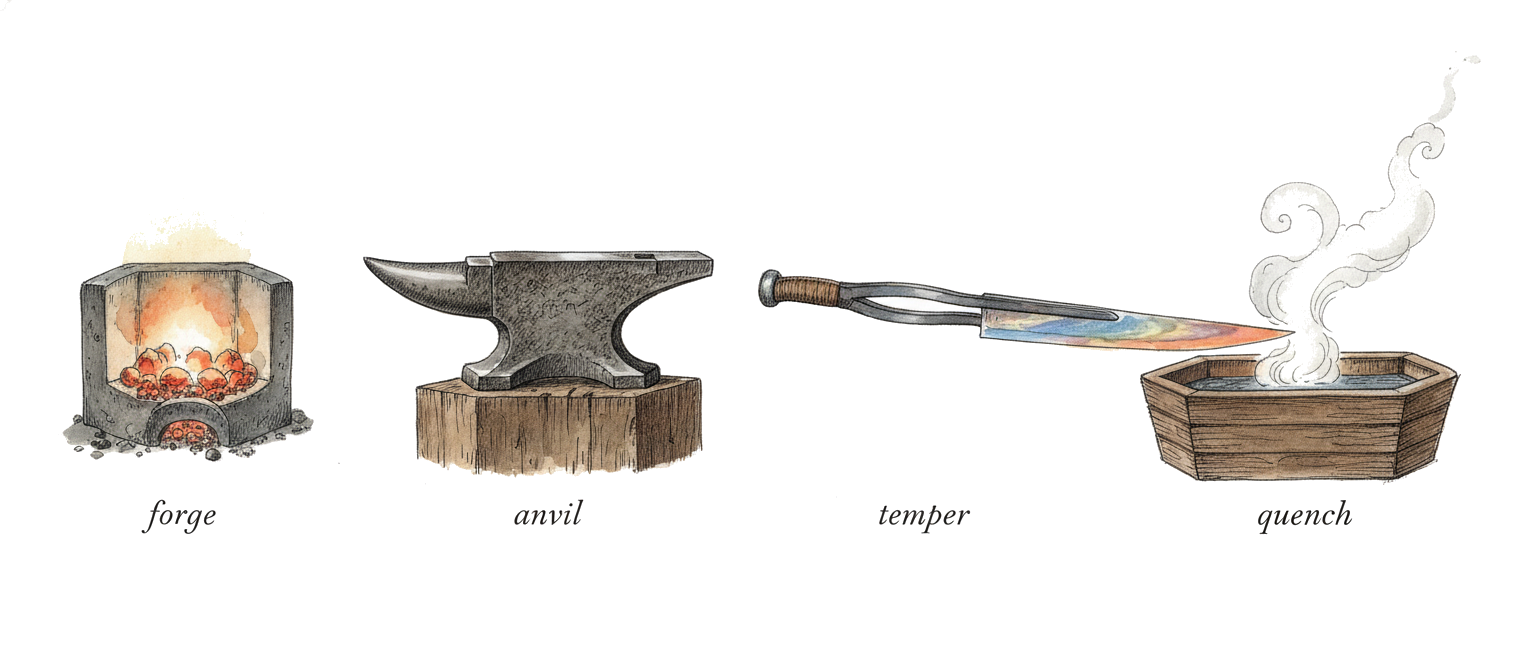
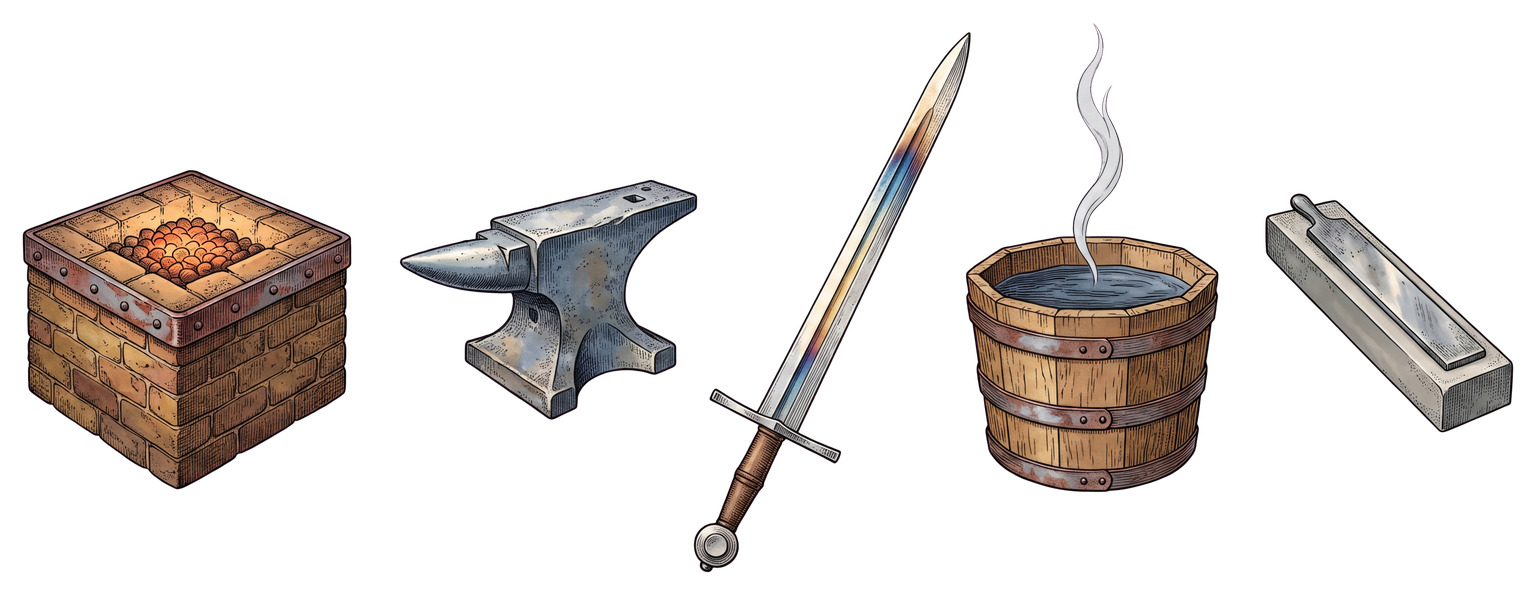
fix: redraw hero.png with a clean alpha channel and all five stages (#13)
The committed hero.png keyed badly. It carried an opaque cream background
remnant sitting above the forge and 250 separate speckle regions of keying
debris — 258 regions in total against 4 objects, with subject pixels bleeding
onto the canvas border. Invisible on white, obvious on any mid-tone.

It was also stale and unfixable in place: `forge anvil temper quench` was
painted into the pixels, so it still read as a four-stage pipeline after `hone`
became stage five, and painted text cannot be re-cropped, restyled or read at
favicon size.

Redrawn with the transparent-logo skill as five objects and no lettering —
coke forge, anvil, tempered blade, quenching tub, whetstone — and cut to a real
alpha channel. The stage names now live in a README caption beside the pipeline
table, where they can be edited.

Cut: 5 regions for 5 objects, 2.06% partial alpha, zero opaque key-coloured
pixels, zero border bleed, no fringe over white, mid-grey or #0d1117.

Four plates were rejected first, each for a property of the subject rather than
of the keyer: an open recess bleeding the key through its hatching, glowing
flame wisps taking the key colour and detaching, a "sword blade" arriving
without a hilt, and a narrow enclosed gap under a bridging clamp surviving the
keyer's hole test because a sliver is mostly antialiased fringe. All four are
recorded in docs/assets/README.md with the fix each one bought.

Feature: hero-image
Symbol: docs/assets/hero.png
[…]

diff --git a/docs/assets/README.md b/docs/assets/README.md
@@ -1,0 +1,51 @@
+# The hero image — provenance
+
+`hero.png` is the five stages of the pipeline drawn as five smithing implements, reading left to
+right: a brick coke forge with a bed of glowing coals (**forge**), a wrought-steel anvil
+(**anvil**), an arming sword whose blade carries the temper colours from straw yellow through
+bronze to peacock blue (**temper**), an oak quenching tub with steam rising off the water
+(**quench**), and a whetstone in its holder (**hone**).
+
+Drawn with the [`transparent-logo`](https://github.com/forkrul/dotfiles-agents) skill
+(`gemini-3-pro-image`, Audubon-era engraved-plate style reference) and cut to a real alpha channel.
+**It cannot be reproduced.** An image model draws a different picture every run, so the command
+below records *how* it was made and will make another one — not this one. That is why the prompt is
+committed beside the asset.
+
+## No lettering
+
+The previous hero baked the words `forge anvil temper quench` into its pixels. Painted text cannot
+be re-cropped, restyled or localised, it is illegible at favicon size, and it goes stale silently —
+that image still read as a four-stage pipeline long after `hone` became stage five. The stage names
+belong in the README's caption and in the pipeline table, never in the image.
+
+## Command
+
+```bash
+export GEMINI_API_KEY=...   # never as an argument: it lands in shell history
+
+uv run python3 .claude/skills/transparent-logo/assets/generate_plate.py \
+  --objects 5 --warm --size 4K --ratio 21:9 --out plate.jpg --subject "$(cat subject.txt)"
+
+uv run --with pillow python3 .claude/skills/transparent-logo/assets/cut_background.py \
+  plate.jpg docs/assets/hero.png --width 1536 --report
+```
+
+The subject line is in [`hero-subject.txt`](hero-subject.txt), verbatim.
+
+**Cut:** 5 regions for 5 objects, partial alpha 2.06%, zero opaque key-coloured pixels, zero border
+bleed, no fringe over white, mid-grey or `#0d1117`. A region count matching the object count is the
+skill's artefact detector; partial alpha in the 2–4% band is the second one.
+
+## What the four rejected plates taught
+
+Five generations, four rejected. Each failure is a property of the *subject*, not of the keyer:
+
+| # | Defect | Cause | Fix applied to the next subject |
+| :--- | :--- | :--- | :--- |
+| 1 | 28 regions; 69 opaque magenta pixels dithered through the forge's ash arch | An open recess is drawn as dark hatching, so the key colour bleeds between the strokes and the cut half-takes it | Close the recess: *"the brick base is solid and closed, with no arch, no opening, no recess and no cavity"* |
+| 2 | 7 regions; flame tips painted **pink**, two of them detached into their own regions | A thin glowing wisp tints towards the magenta key however firmly `--warm` bans rose, and then breaks off | Remove the wisps and name the fire's colours: *"coals glowing in orange, amber and straw yellow only … no flame, no wisp and no spark"* |
+| 3 | Clean at 5 regions / 2.48%, but the sword lost its hilt and read as a shard | "A sword blade" is a blade, not a sword | Name every part: *"a straight double-edged blade, a plain straight iron crossguard, a leather-wrapped grip and a rounded iron pommel"* |
+| 4 | Clean at 5 regions / 2.33%, but an 18px magenta sliver under the honing guide's clamp | A **narrow enclosed** gap is mostly antialiased fringe, so it fails the keyer's hole test (a hole needs half its pixels above the clear threshold) and survives as opaque key colour | Remove the bridge rather than loosen the keyer: *"the guide lies flat against the stone … with no arch, no bridge, no clamp jaw, no leg and no gap"* |
+
+Findings 1, 2 and 4 are recorded upstream as `L15`–`L17` in the skill's running log.

diff --git a/CHANGELOG.md b/CHANGELOG.md
@@ -29,6 +29,7 @@ All notable changes to this project are documented here, following [Common Chang
 
 ### Changed
 
+- Redraw `docs/assets/hero.png` with a real alpha channel: the previous file carried an opaque cream background remnant above the forge and 250 speckle regions of keying debris, and it showed four stages with `forge anvil temper quench` painted into its pixels. The new plate is five objects and no lettering — 5 regions for 5 objects, 2.06% partial alpha, no border bleed — with the stage names moved to a README caption
 - Make `install.sh` portable to bash 3.2 / stock macOS (replace `declare -A` and `readlink -f` with portable equivalents)
 - Replace the external-API review gate in `temper` with a fully local adversarial panel (3 critic lenses + judge; A++ = two consecutive zero-blocking rounds, max 5 rounds)
 - Change forge's Norms section to require machine-checkable form (the tool + config that enforces each norm, installed as gates by quench) and mark each Safeguard as the source of a property test or runtime assertion

diff --git a/README.md b/README.md
@@ -2,7 +2,9 @@
 
 **Structured Prompt-Driven Development, or BDD/TDD carnival, or Spec-it-to-death.** A raw idea enters; folded, hardened, tested steel leaves. Damascus packages the SPDD pipeline — five gated stages plus an orchestrator — as skills you symlink into any repo.
 
-![The Damascus pipeline](docs/assets/hero.png)
+![The Damascus pipeline: a coke forge, an anvil, a tempered blade, a quenching tub and a whetstone](docs/assets/hero.png)
+
+<sub>Left to right: **forge** · **anvil** · **temper** · **quench** · **hone**.</sub>
 
 ## The Pipeline
 
